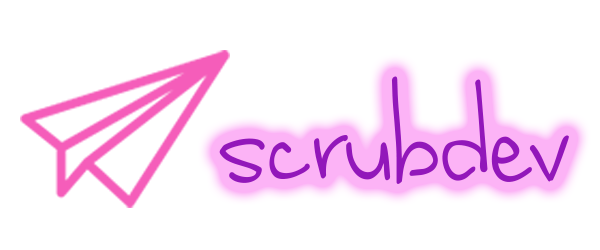
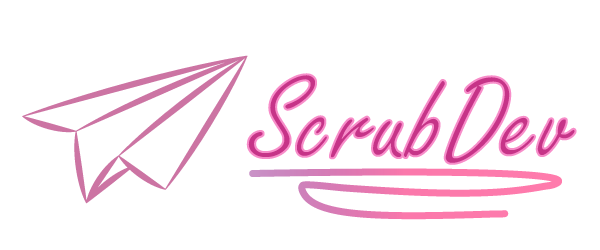
New settings page & new assets
assets sourced on scrubdev/scrubdev-design

diff --git a/src/web-src/component/settings.vue b/src/web-src/component/settings.vue
@@ -1,0 +1,50 @@
+<!--
+ * scrubdev - Web Frontend for the Automation System Project.
+ * Copyright (C) 2016 scrubdev (lead - Nicholas Tay <nexerq@gmail.com>)
+ *
+ * This program is free software: you can redistribute it and/or modify
+ * it under the terms of the GNU Affero General Public License as published by
+ * the Free Software Foundation, at version 3 of the License.
+ *
+ * This program is distributed in the hope that it will be useful,
+ * but WITHOUT ANY WARRANTY; without even the implied warranty of
+ * MERCHANTABILITY or FITNESS FOR A PARTICULAR PURPOSE.  See the
+ * GNU Affero General Public License for more details.
+
+ * You should have received a copy of the GNU Affero General Public License
+ * along with this program.  If not, see <http://www.gnu.org/licenses/>.
+-->
+
+<template>
+<div>
+    <div class="container">
+        <div class="row">
+            <h3><i class="fa fa-cogs" aria-hidden="true"></i> Settings</h3>
+        </div>
+
+        <div class="row" style="margin-left: 45px;">
+            <table class="u-full-width">
+                <thead>
+                    <tr>
+                        <th>Setting</th>
+                        <th>Description</th>
+                        <th></th>
+                    </tr>
+                </thead>
+                <tbody>
+                    <tr>
+                        <td>setting.advanced</td>
+                        <td>Display advanced settings (not recommended)</td>
+                        <td><i class="fa fa-cog" aria-hidden="true"></i></td>
+                    </tr>
+                    <tr>
+                        <td>ayy.lmao</td>
+                        <td>xd nice meme</td>
+                        <td><i class="fa fa-cog" aria-hidden="true"></i></td>
+                    </tr>
+                </tbody>
+            </table>
+        </div>
+    </div>
+</div>
+</template>

diff --git a/src/web-src/routes.js b/src/web-src/routes.js
@@ -18,11 +18,13 @@
 import Loading from "./component/loading.vue";
 import Home from "./component/home.vue";
 import Favorites from "./component/favorites.vue";
+import Settings from "./component/settings.vue";
 
 const routes = {
     "/": { name: "Loading", component: Loading },
     "/home": { name: "Home", component: Home },
-    "/favorites": { name: "Favorites", component: Favorites }
+    "/favorites": { name: "Favorites", component: Favorites },
+    "/settings": { name: "Settings", component: Settings }
 };
 
 export default routes;

diff --git a/src/web-src/component/loading.vue b/src/web-src/component/loading.vue
@@ -24,7 +24,7 @@
             <img src="/static/assets/plane.png" class="centerup" alt="scrubdev" height="125px">
         </div>
 
-        <div style="color: yellowgreen; top: calc(50% + 50px);" class="centerup">
+        <div style="color: #DE4AE7; top: calc(50% + 50px);" class="centerup">
             <i class="fa fa-cog fa-spin fa-3x fa-fw"></i>
             <span class="sr-only">Loading...</span>
         </div>

diff --git a/src/web-src/component/home.vue b/src/web-src/component/home.vue
@@ -19,7 +19,7 @@
 <div>
     <div class="container">
         <div class="row">
-            <h3><i class="fa fa-cogs" aria-hidden="true"></i> Dashboard</h3>
+            <h3><i class="fa fa-home" aria-hidden="true"></i> Dashboard</h3>
         </div>
 
         <div class="row" style="margin-left: 45px;">

diff --git a/src/web-src/stylesheet/loading.css b/src/web-src/stylesheet/loading.css
@@ -37,7 +37,7 @@
     height: 225px;
     width: 450px;
     z-index: -1;
-    opacity: 0.75;
+    opacity: 0.9;
 }
 
 
